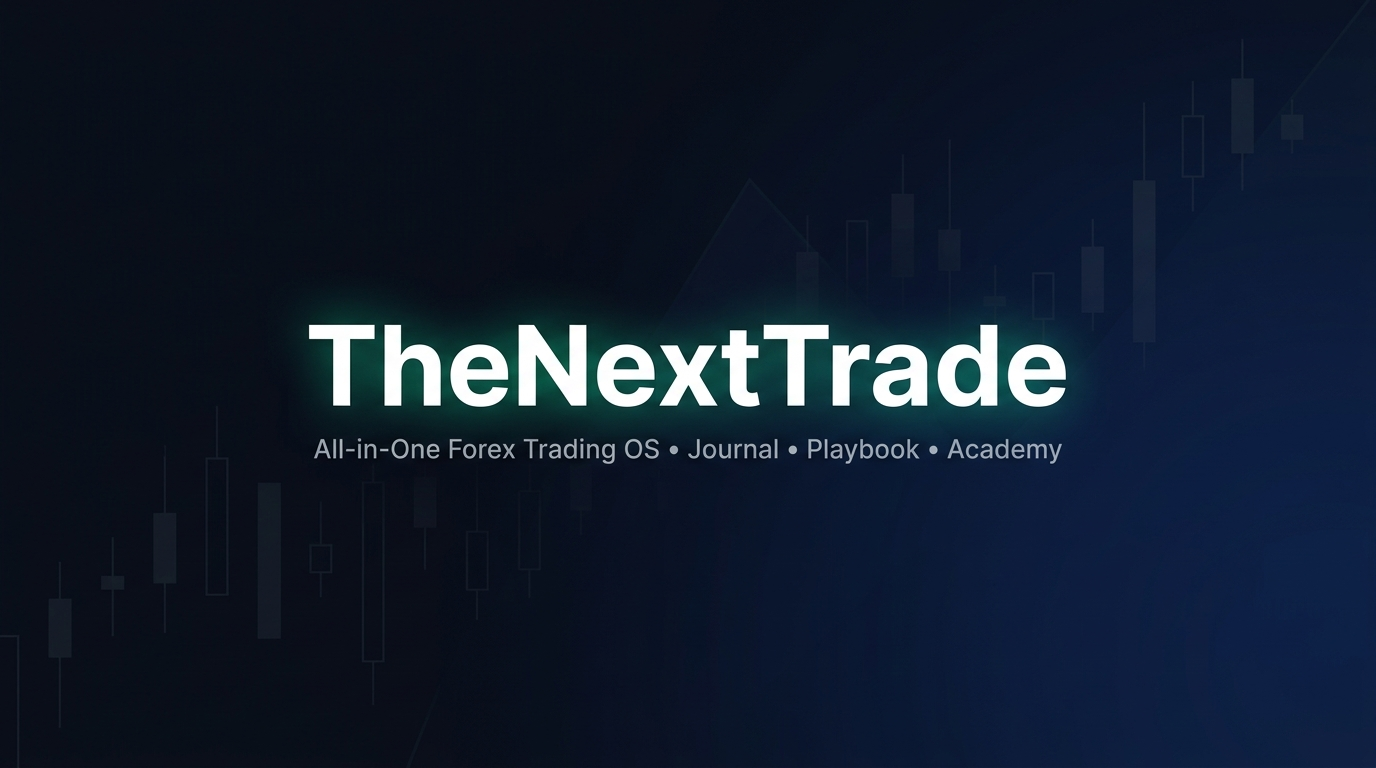
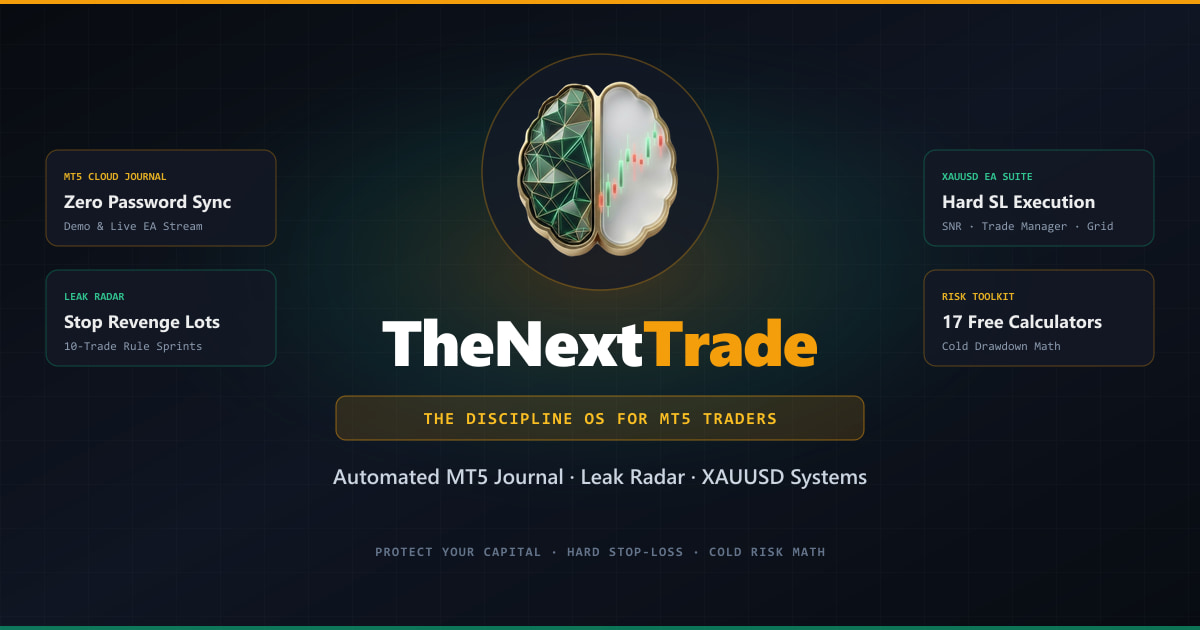
feat(seo): update center-safe OG image and social metadata

diff --git a/src/app/page.tsx b/src/app/page.tsx
@@ -11,24 +11,25 @@ import dynamic from "next/dynamic";
 import type { Metadata } from "next";
 
 export const metadata: Metadata = {
-    title: "TheNextTrade - All-in-One Forex Trading OS, Playbook & Journal",
+    title: "TheNextTrade — The Discipline OS for MT5 Traders",
     description:
-        "Turn your trade history into consistent edge with TheNextTrade. Automated MT5 Trade Journal, Playbook Studio, 17 free forex calculators, and automated MT5 execution systems.",
+        "Sync Demo & Live MT5 trades via EA with zero password sharing. Spot revenge sizing, enforce hard stop-loss rules, and access 17 free risk calculators.",
     alternates: {
         canonical: "/",
     },
     openGraph: {
-        title: "TheNextTrade - All-in-One Forex Trading OS, Playbook & Journal",
+        title: "TheNextTrade — The Discipline OS for MT5 Traders",
         description:
-            "Automated MT5 Trade Journal, Playbook Studio, 17 free forex calculators, and automated MT5 execution systems.",
-        url: "https://thenexttrade.io",
+            "Sync Demo & Live MT5 trades via EA with zero password sharing. Spot revenge sizing, enforce hard stop-loss rules, and access 17 free risk calculators.",
+        url: "/",
         siteName: "TheNextTrade",
         images: [
             {
-                url: "/og-image.jpg",
+                url: "/og-image.jpg?v=2",
                 width: 1200,
                 height: 630,
-                alt: "TheNextTrade Trading Platform",
+                type: "image/jpeg",
+                alt: "TheNextTrade — The Discipline OS for MT5 Traders",
             },
         ],
         locale: "en_US",
@@ -36,10 +37,10 @@ export const metadata: Metadata = {
     },
     twitter: {
         card: "summary_large_image",
-        title: "TheNextTrade - All-in-One Forex Trading OS",
+        title: "TheNextTrade — The Discipline OS for MT5 Traders",
         description:
-            "Automated MT5 Trade Journal, Playbook Studio, 17 free forex calculators, and automated MT5 execution systems.",
-        images: ["/og-image.jpg"],
+            "Sync Demo & Live MT5 trades via EA with zero password sharing. Spot revenge sizing, enforce hard stop-loss rules, and access 17 free risk calculators.",
+        images: ["/og-image.jpg?v=2"],
     },
 };
 

diff --git a/src/app/layout.tsx b/src/app/layout.tsx
@@ -38,11 +38,11 @@ const lexend = Lexend({
 
 export const metadata: Metadata = {
     title: {
-        default: "TheNextTrade - Professional Forex Trading Tools & Academy",
+        default: "TheNextTrade — The Discipline OS for MT5 Traders",
         template: "%s | TheNextTrade",
     },
     description:
-        "Forex position-size calculator, MT5-synced trading journal, and targeted risk calculators — free to use.",
+        "Sync Demo & Live MT5 trades via EA with zero password sharing. Spot revenge sizing, enforce hard stop-loss rules, and access 17 free risk calculators.",
     keywords: [
         "Forex",
         "Trading Journal",
@@ -57,23 +57,27 @@ export const metadata: Metadata = {
     openGraph: {
         type: "website",
         locale: "en_US",
-        url: "https://thenexttrade.io",
-        title: "TheNextTrade - Professional Forex Trading Tools",
-        description: "Forex tools, journal, and education — free to start.",
+        url: "/",
+        title: "TheNextTrade — The Discipline OS for MT5 Traders",
+        description:
+            "Sync Demo & Live MT5 trades via EA with zero password sharing. Spot revenge sizing, enforce hard stop-loss rules, and access 17 free risk calculators.",
         siteName: "TheNextTrade",
         images: [
             {
-                url: "/og-image.jpg",
+                url: "/og-image.jpg?v=2",
                 width: 1200,
                 height: 630,
-                alt: "TheNextTrade Dashboard",
+                type: "image/jpeg",
+                alt: "TheNextTrade — The Discipline OS for MT5 Traders",
             },
         ],
     },
     twitter: {
         card: "summary_large_image",
-        title: "TheNextTrade",
-        description: "Professional Forex Trading Tools & Academy",
+        title: "TheNextTrade — The Discipline OS for MT5 Traders",
+        description:
+            "Sync Demo & Live MT5 trades via EA with zero password sharing. Spot revenge sizing, enforce hard stop-loss rules, and access 17 free risk calculators.",
+        images: ["/og-image.jpg?v=2"],
         creator: "@thenexttrade",
     },
     icons: {
